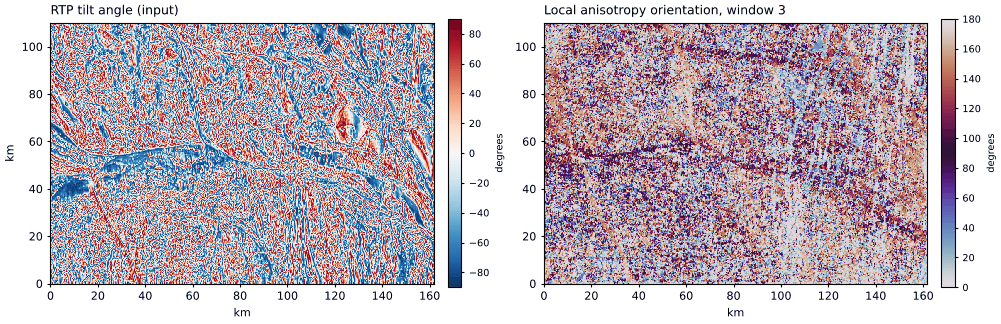
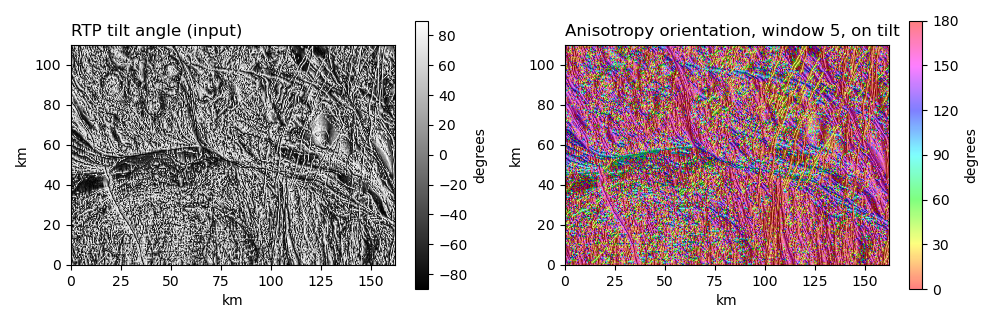
Anisotropy example on greyscale tilt angle; Spatial Statistics window defaults to 5
The local anisotropy orientation figures now show the RTP tilt angle in greyscale as the input and the orientation in the Full_saturation_spectrum_CCW ramp at 50% opacity over it (window 5). The QGIS dock's Spatial Statistics window starts at 5, as in the ArcGIS Pro GUI.

diff --git a/SGTool_dockwidget.py b/SGTool_dockwidget.py
@@ -904,7 +904,7 @@ class SGToolDockWidget(QDockWidget):
         lbl_ws = QLabel(_tr("Window size for all filters (odd numbers)"))
         lbl_ws.setAlignment(Qt.AlignmentFlag.AlignRight | Qt.AlignmentFlag.AlignVCenter)
         self.label_78 = lbl_ws
-        self.lineEdit_SS_Window = QLineEdit("3")
+        self.lineEdit_SS_Window = QLineEdit("5")
         self.lineEdit_SS_Window.setFixedWidth(50)
         g.addWidget(lbl_ws,                   0, 0, 1, 3)
         g.addWidget(self.lineEdit_SS_Window,  0, 3)

diff --git a/docs/reference.md b/docs/reference.md
@@ -697,7 +697,7 @@ The window (2a+1 cells across) is split into four overlapping (a+1) x (a+1) quad
 
 | Setting | Default | Meaning |
 |---|---|---|
-| **Window size for all filters** | 3 | Diameter of the circular window, in cells (odd) |
+| **Window size for all filters** | 5 | Diameter of the circular window, in cells (odd) |
 | Window type (beside Local Anisotropy) | Gaussian | Gaussian or box smoothing of the gradient products |
 | Orientation from (beside Local Anisotropy) | Gradient (edges) | *Gradient (edges)* for grids of field values, where features are steps; *Curvature (lines)* for grids where features are thin ridges and valleys (NAV-Edge, NSTD, vertical derivatives, worms) |
 
@@ -714,7 +714,7 @@ Tick any of the statistics below. Each is saved as its own grid. Standard deviat
 *Reference* (Min to Skewness): standard sample statistics, with no single primary reference.
 *In SGTool* (Min to Skewness): original code. The window is a circle whose diameter is the window size, no-data cells are left out, and a window needs at least 3 valid values. Skewness and kurtosis follow `scipy.stats` (biased estimates; kurtosis is the excess kurtosis, 0 for a normal distribution; a near-constant window gives no-data), calculated for many windows at once.
 
-The examples are of the RTP 1VD, with a window of 9 cells (15 for the anisotropy magnitude). The anisotropy orientation example is of the RTP tilt angle (`_TA`), with a window of 3.
+The examples are of the RTP 1VD, with a window of 9 cells (15 for the anisotropy magnitude). The anisotropy orientation example is of the RTP tilt angle (`_TA`), with a window of 5.
 
 **Standard deviation** (zoomed).
 
@@ -771,7 +771,7 @@ The eigenvalues, magnitude and orientation then follow as above, with the same 0
 
 ![Anisotropy magnitude](images/examples/anisotropy_magnitude.png)
 
-**Example: local anisotropy orientation of the RTP tilt angle**, window 3. The colour scale is cyclic, as 0° and 180° are the same strike.
+**Example: local anisotropy orientation of the RTP tilt angle**, window 5. Left, the tilt angle in greyscale (the input); right, the orientation drawn as SGTool shows it, in the cyclic *Full_saturation_spectrum_CCW* colour ramp at 50% opacity over the greyscale tilt angle. The colour scale is cyclic, as 0° and 180° are the same strike.
 
 ![Anisotropy orientation](images/examples/anisotropy_orientation.png)
 

diff --git a/docs/changelog.md b/docs/changelog.md
@@ -7,6 +7,7 @@ The changelog is also in `metadata.txt`, which QGIS shows in the Plugin Manager.
 ## 0.4.4
       * [GUI Modification] Multiband tab: the radiometric rows are now K, eTh, eU, the usual ternary band order, and a 3-band grid whose band names do not identify the elements fills band 2 as eTh and band 3 as eU (before, eU and eTh); the same default applies to the Processing algorithms and ArcGIS Pro toolbox tools
       * [New Feature] Local anisotropy: new Orientation from setting; Curvature (lines) takes the orientation from the Hessian instead of the gradient, so the strike stays steady along thin lines such as NAV-Edge, NSTD or vertical-derivative lineaments (also in the Processing algorithm, replay and the ArcGIS Pro GUI)
+      * [GUI Modification] Spatial Statistics: the window size now starts at 5 (was 3), which suits skewness and kurtosis better, as in the ArcGIS Pro GUI
 
 ## 0.4.3
       * [New Feature] Edge Detectors on the FFT Filters+ tab (renamed from FFT Filters): normalised standard deviation (NSTD, Cooper & Cowan 2008) and NAV-Edge (Zhang et al. 2014), whose edges are its zero crossings

diff --git a/docs/user-guide.md b/docs/user-guide.md
@@ -354,7 +354,7 @@ Kuwahara gives the strongest, terraced simplification; SNN is gentler and is bes
 Window statistics map the texture of a grid: for example, the standard deviation of the 1VD in a moving window is high where the magnetic rocks are strongly layered or faulted.
 
 1. Select the grid (here the RTP 1VD).
-2. Set **Window size for all filters** (an odd number of cells; 9 in the examples).
+2. Set **Window size for all filters** (an odd number of cells; 5 by default, which suits skewness and kurtosis; 9 in the examples).
 3. Tick one or more of **Min**, **Max**, **Variance**, **Standard Deviation**, **Skewness**, **Kurtosis**.
 4. Press **Apply Processing**. Each statistic is saved separately (`_SS_StdDev` and so on).
 
